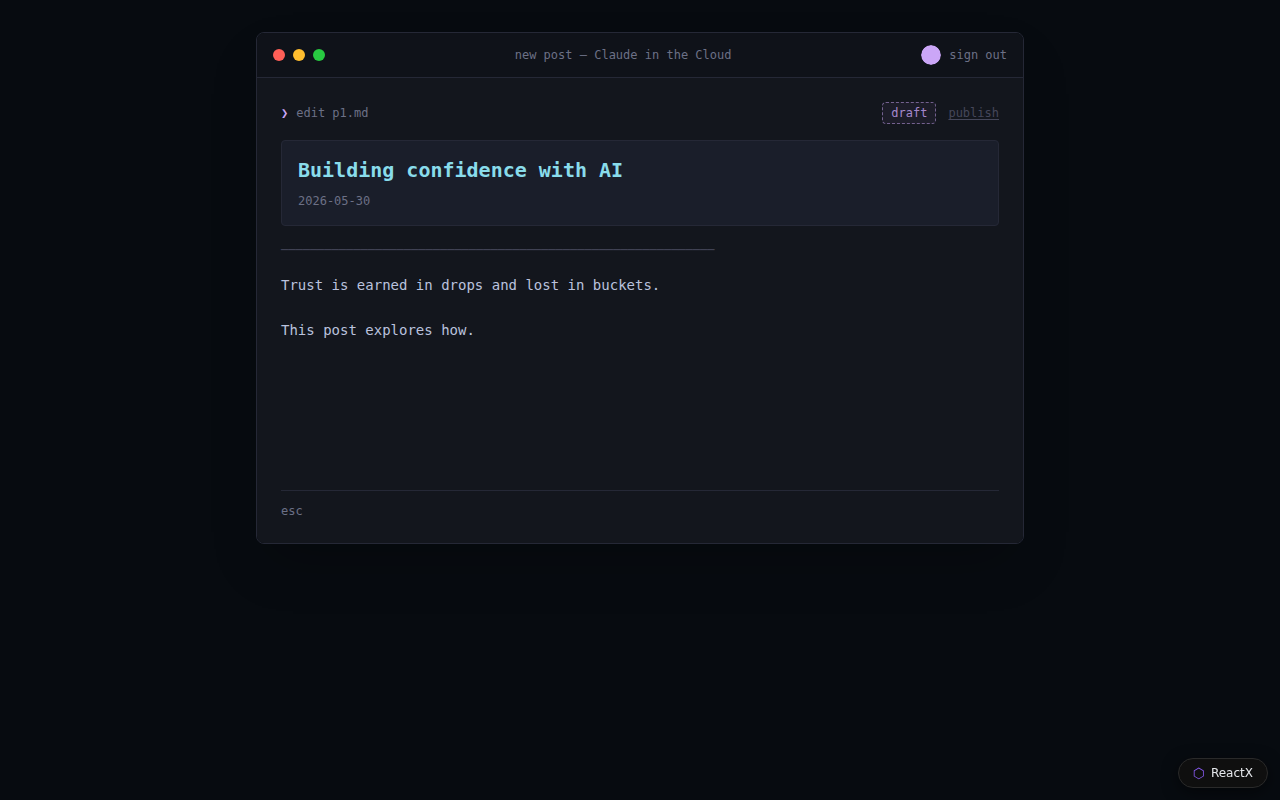
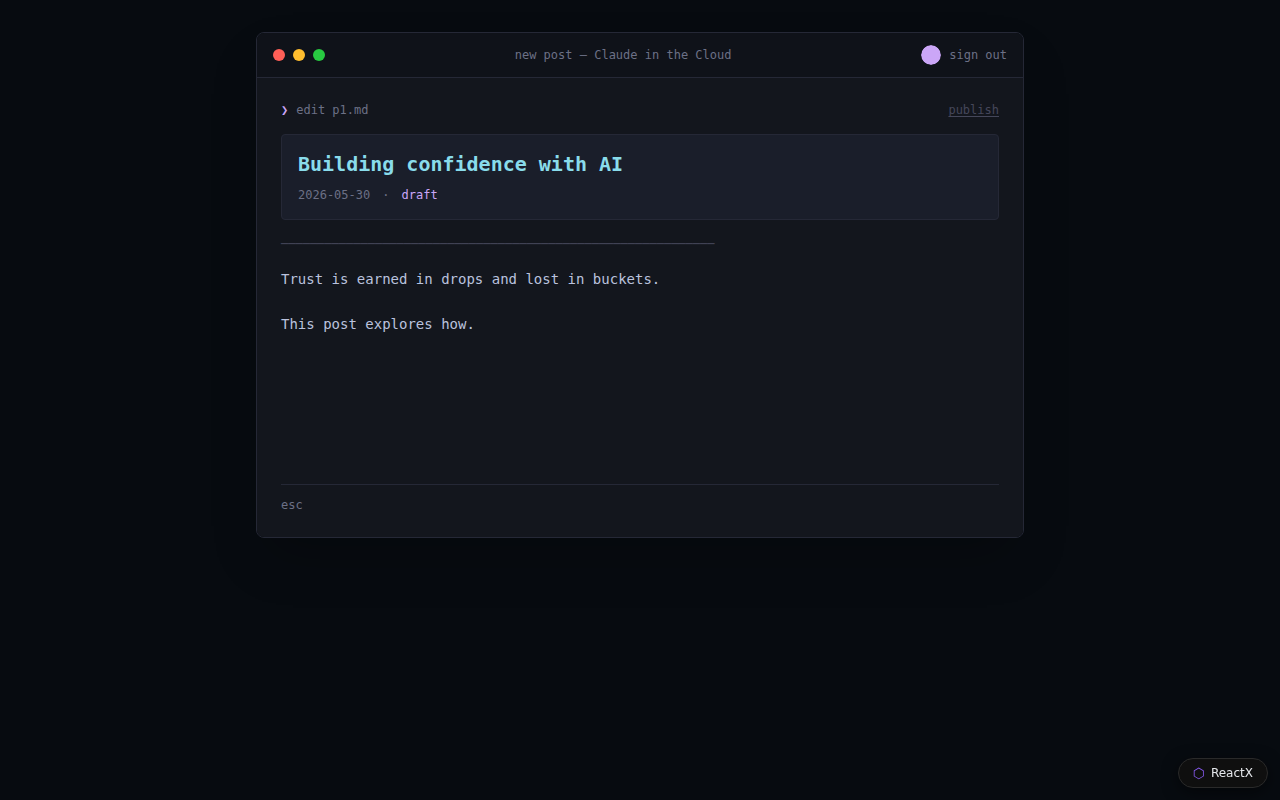
Move editor draft indication below the title
Drop the boxed draft/live badge from the editor's top row and show the same
flat draft label below the title as the post view, keeping only publish at top.

diff --git a/src/desktop/components/BlogEditor.tsx b/src/desktop/components/BlogEditor.tsx
@@ -12,23 +12,12 @@ export function BlogEditor() {
           <span className="text-mauve">❯</span>
           <span>edit {post.id}.md</span>
         </div>
-        <div className="flex items-center gap-3">
-          <span
-            className={`px-2 py-0.5 rounded border font-mono text-xs ${
-              app.draftPublished
-                ? "border-green/50 text-green bg-green/10"
-                : "border-dashed border-mauve/50 text-mauve/80 bg-mauve/5"
-            }`}
-          >
-            {app.draftPublished ? "live" : "draft"}
-          </span>
-          <button
-            onClick={handlePublishToggle}
-            className="text-dim hover:text-muted transition-colors cursor-pointer underline underline-offset-2"
-          >
-            {app.draftPublished ? "unpublish" : "publish"}
-          </button>
-        </div>
+        <button
+          onClick={handlePublishToggle}
+          className="text-dim hover:text-muted transition-colors cursor-pointer underline underline-offset-2"
+        >
+          {app.draftPublished ? "unpublish" : "publish"}
+        </button>
       </div>
       <div className="rounded p-4 space-y-2 bg-surface border border-border">
         <input
@@ -40,6 +29,12 @@ export function BlogEditor() {
         />
         <div className="flex items-center gap-3 text-xs text-muted">
           <span>{post.createdAt.slice(0, 10)}</span>
+          {!app.draftPublished && (
+            <>
+              <span>·</span>
+              <span className="text-mauve">draft</span>
+            </>
+          )}
         </div>
       </div>
       <div className="text-dim text-xs">{"─".repeat(60)}</div>

diff --git a/src/mobile/components/BlogEditor.tsx b/src/mobile/components/BlogEditor.tsx
@@ -14,23 +14,12 @@ export function BlogEditor() {
         >
           ← back
         </button>
-        <div className="flex items-center gap-3">
-          <span
-            className={`text-xs px-2 py-0.5 rounded border font-mono ${
-              app.draftPublished
-                ? "border-green/50 text-green bg-green/10"
-                : "border-dashed border-mauve/50 text-mauve/80 bg-mauve/5"
-            }`}
-          >
-            {app.draftPublished ? "live" : "draft"}
-          </span>
-          <button
-            onClick={handlePublishToggle}
-            className="text-xs text-dim font-mono active:text-muted underline underline-offset-2"
-          >
-            {app.draftPublished ? "unpublish" : "publish"}
-          </button>
-        </div>
+        <button
+          onClick={handlePublishToggle}
+          className="text-xs text-dim font-mono active:text-muted underline underline-offset-2"
+        >
+          {app.draftPublished ? "unpublish" : "publish"}
+        </button>
       </div>
       <input
         ref={titleRef}
@@ -39,7 +28,15 @@ export function BlogEditor() {
         value={app.draftTitle}
         onChange={handleTitleChange}
       />
-      <div className="text-xs text-muted">{post.createdAt.slice(0, 10)}</div>
+      <div className="flex items-center gap-2 text-xs text-muted">
+        <span>{post.createdAt.slice(0, 10)}</span>
+        {!app.draftPublished && (
+          <>
+            <span>·</span>
+            <span className="text-mauve">draft</span>
+          </>
+        )}
+      </div>
       <div className="border-t border-border" />
       <div
         ref={bodyRef}
